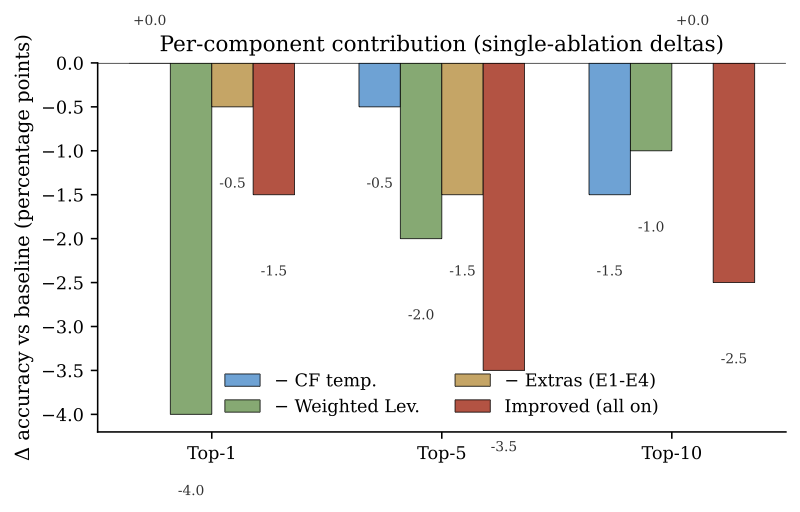
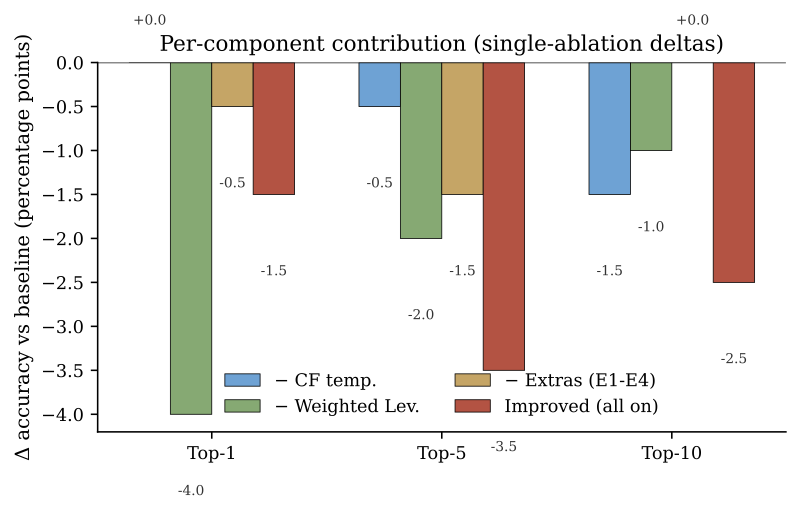
Rewrite euclid and logion subpages: lead with statistical findings, add SBLGNT variants chart
Both pages restructured to lead with defensible, statistically-backed claims
before method details and caveats. Logion page adds the variants evaluation
chart (p<10^-3 at top-5) and negative findings (CF-temp inert, Extras harmful).
Euclid page foregrounds the 3x3 counterbalanced design and contamination probe.

diff --git a/euclid/index.html b/euclid/index.html
@@ -8,66 +8,109 @@
   <link rel="preconnect" href="https://fonts.googleapis.com">
   <link rel="preconnect" href="https://fonts.gstatic.com" crossorigin>
   <link href="https://fonts.googleapis.com/css2?family=EB+Garamond&display=swap" rel="stylesheet">
-  <style>body{max-width:70ch;margin:2em auto;padding:0 1em;font-family:'EB Garamond',Garamond,Georgia,serif;}</style>
+  <style>
+    body{max-width:70ch;margin:2em auto;padding:0 1em;font-family:'EB Garamond',Garamond,Georgia,serif;line-height:1.5;}
+    table{border-collapse:collapse;margin:1em 0;width:100%;}
+    th,td{border:1px solid #999;padding:0.3em 0.6em;text-align:center;}
+    th{background:#f5f5f0;}
+    td:first-child{text-align:left;font-weight:bold;}
+    caption{font-style:italic;margin-bottom:0.3em;text-align:left;}
+    .finding{border-left:3px solid #333;padding-left:0.8em;margin:1.2em 0;}
+    .stat{font-weight:bold;}
+    small{color:#555;}
+    .caveats li{margin-bottom:0.4em;}
+  </style>
 </head>
 <body>
 
 <h1>Few-Shot Prompt Style Dominates Translation Choice in Autoformalization</h1>
 
-<!-- intro: Does the English translation of a mathematical text affect autoformalization success? We test this on Euclid's Elements using three translations — Heath (1908), Fitzpatrick (2007), and a modern paraphrase — formalized into Lean 4 by GPT-4o. An initial uncontrolled comparison found an 8.4pp advantage for Fitzpatrick (p=0.008), but adversarial review identified a prompt-translation confound. -->
-
 <hr>
 
-<h2>The Problem</h2>
+<h2>Key Findings</h2>
 
-<!-- Autoformalization translates informal mathematics into verified formal languages. If a model formalizes from English, does the quality or register of the English matter? Euclid's Elements is a natural experiment: the same propositions exist in radically different translations spanning centuries. We compare archaic Victorian prose (Heath), modern academic mathematics with explicit variables (Fitzpatrick), and minimal contemporary statements. -->
+<div class="finding">
+<p><strong>Translation has no significant effect on autoformalization success</strong> (<em>p</em>=0.603) once prompt style is controlled. <strong>Prompt style drives a 24pp range</strong> in compilation rate (72.6% vs. 48.4%, <em>p</em>&lt;0.001). An initial finding that Fitzpatrick's translation outperforms Heath's (8.4pp, <em>p</em>=0.008) was entirely a prompt-translation confound.</p>
+</div>
 
-<h2>Contamination</h2>
+<div class="finding">
+<p><strong>Qwen2.5-Coder-7B has memorized the LeanEuclid benchmark.</strong> The model achieves its highest compile rate &mdash; 62.8% &mdash; from empty input (just "Proposition N"), with 100% of outputs using LeanEuclid-specific predicates. GPT-4o is clean: 10% from empty input vs. 67.9% from full text.</p>
+</div>
 
-<!-- Qwen2.5-Coder-7B-Instruct (Q4_K_M, local inference on Jetson Orin Nano Super) achieves its highest compile rate — 62.8% — with no input text at all (just "Proposition N"), every output uses LeanEuclid-specific predicates exclusively. The model has memorized the benchmark, masking all input effects. GPT-4o passes the contamination check: 10% compile rate from empty input vs 67.9% from full text. -->
+<h2>Setup</h2>
 
-<h2>Counterbalanced Design</h2>
+<p>Euclid's <em>Elements</em> Book I exists in three radically different English registers, all expressing the same 48 propositions: Heath (1908, archaic Victorian), Fitzpatrick (2007, modern academic with explicit variables), and a minimal contemporary paraphrase. Using GPT-4o and the <a href="https://github.com/loganrjmurphy/LeanEuclid">LeanEuclid</a> benchmark (Murphy et al., 2024), we asked: does the English register affect formalization into Lean 4?</p>
 
-<!-- Phase 2 prompt used Fitzpatrick-style few-shot examples for all conditions — confounding prompt with translation. Phase 3 creates three prompt templates (Fitzpatrick, Heath, Modern) for a fully crossed 3x3 design. -->
+<h2>The Confound</h2>
 
-<table border="1">
-  <caption>Compilation rates by translation &times; prompt style (Book I)</caption>
+<p>Phase 2 used a single prompt template whose five few-shot examples were written in Fitzpatrick's style. This confounded prompt with translation: the Fitzpatrick translation was "in-distribution" for the prompt. Phase 3 disentangled the two by creating three prompt templates (Fitzpatrick-style, Heath-style, Modern-style) for a fully crossed 3&times;3 design across 143 propositions (Book I + 100 UniGeo theorems, 2,653 total observations).</p>
+
+<table>
+  <caption>Compilation rates by translation &times; prompt style (Book I, GPT-4o)</caption>
   <thead>
     <tr><th></th><th>Fitzpatrick prompt</th><th>Heath prompt</th><th>Modern prompt</th></tr>
   </thead>
   <tbody>
-    <tr><td><strong>Fitzpatrick</strong></td><td><strong>76.3%</strong></td><td>60.0%</td><td>45.9%</td></tr>
-    <tr><td><strong>Heath</strong></td><td>67.9%</td><td>65.5%</td><td>52.6%</td></tr>
-    <tr><td><strong>Modern</strong></td><td>73.5%</td><td>63.2%</td><td>46.8%</td></tr>
+    <tr><td>Fitzpatrick</td><td><strong>76.3%</strong></td><td>60.0%</td><td>45.9%</td></tr>
+    <tr><td>Heath</td><td>67.9%</td><td>65.5%</td><td>52.6%</td></tr>
+    <tr><td>Modern</td><td>73.5%</td><td>63.2%</td><td>46.8%</td></tr>
   </tbody>
 </table>
 
-<!-- The Phase 2 finding (Fitzpatrick > Heath by 8.4pp) appears only in the Fitzpatrick-prompt column. With Heath or Modern prompts, the effect reverses. -->
+<p>The Phase 2 result (Fitzpatrick &gt; Heath by 8.4pp) appears only in the Fitzpatrick-prompt column. With Heath-style prompts the effect <em>reverses</em> (Heath 65.5% &gt; Fitzpatrick 60.0%). With Modern-style prompts it reverses again (Heath 52.6% &gt; Fitzpatrick 45.9%). On 100 independent UniGeo theorems (Fitzpatrick prompt only), Heath outperforms Fitzpatrick by 6.2pp &mdash; the opposite direction of the original claim.</p>
 
-<h2>Results</h2>
+<h2>Statistical Model</h2>
 
-<!-- Mixed-effects linear regression with proposition as random intercept (N=2,653 observations across 143 propositions): -->
+<p>Mixed-effects linear regression with proposition as random intercept (N=2,653):</p>
 
-<table border="1">
+<table>
   <caption>Mixed-effects model coefficients</caption>
   <thead>
-    <tr><th>Predictor</th><th>Coefficient</th><th><em>p</em></th></tr>
+    <tr><th style="text-align:left">Predictor</th><th>Coefficient</th><th>SE</th><th><em>p</em></th></tr>
   </thead>
   <tbody>
-    <tr><td>Translation (Fitzpatrick vs Heath)</td><td>+0.010</td><td>0.603</td></tr>
-    <tr><td>Translation (Modern vs Heath)</td><td>+0.009</td><td>0.665</td></tr>
-    <tr><td><strong>Prompt (Heath vs Fitzpatrick)</strong></td><td><strong>&minus;0.097</strong></td><td><strong>&lt;0.001</strong></td></tr>
-    <tr><td><strong>Prompt (Modern vs Fitzpatrick)</strong></td><td><strong>&minus;0.242</strong></td><td><strong>&lt;0.001</strong></td></tr>
+    <tr><td>Translation (Fitzpatrick vs. Heath)</td><td>+0.010</td><td>0.019</td><td>0.603</td></tr>
+    <tr><td>Translation (Modern vs. Heath)</td><td>+0.009</td><td>0.021</td><td>0.665</td></tr>
+    <tr><td>Prompt (Heath vs. Fitzpatrick)</td><td><strong>&minus;0.097</strong></td><td>0.022</td><td><strong>&lt;0.001</strong></td></tr>
+    <tr><td>Prompt (Modern vs. Fitzpatrick)</td><td><strong>&minus;0.242</strong></td><td>0.024</td><td><strong>&lt;0.001</strong></td></tr>
   </tbody>
 </table>
 
-<!-- Translation has no significant effect (p=0.60). Prompt style drives a 24pp range (72.6% vs 48.4%, p<0.001). Adding a prompt x translation interaction does not improve model fit (AIC increases by 4.3). On 100 independent UniGeo theorems, Heath outperforms Fitzpatrick by 6.2pp — the opposite direction of the original claim. -->
+<p>Adding prompt improves model fit by 99.5 AIC points. Adding a prompt&times;translation interaction does not improve fit (AIC increases by 4.3). Paired t-test on per-proposition rates (N=66 items, marginalized over prompt): Heath 70.0% vs. Fitzpatrick 62.3%, <em>t</em>(65)=&minus;1.66, <em>p</em>=0.102; Cohen's <em>d</em>=&minus;0.20.</p>
+
+<h2>Contamination Probe</h2>
+
+<p>Qwen2.5-Coder-7B-Instruct (Q4_K_M, local inference on Jetson Orin Nano Super, ~9.5 tok/s) was tested under four conditions:</p>
+
+<table>
+  <caption>Contamination probe results (Qwen2.5-Coder-7B)</caption>
+  <thead>
+    <tr><th style="text-align:left">Condition</th><th>Input</th><th>Compile Rate</th><th>LeanEuclid Vocab</th></tr>
+  </thead>
+  <tbody>
+    <tr><td>Full text (Heath)</td><td>Complete translation</td><td>60.5%</td><td>100%</td></tr>
+    <tr><td><strong>Empty</strong></td><td>"Proposition N" only</td><td><strong>62.8%</strong></td><td>100%</td></tr>
+    <tr><td>Adversarial</td><td>Garbled vocabulary</td><td>60.5%</td><td>100%</td></tr>
+    <tr><td>Scrambled</td><td>Shuffled clause order</td><td>60.5%</td><td>100%</td></tr>
+  </tbody>
+</table>
+
+<p>The model achieves its highest compile rate with no mathematical input &mdash; it has memorized the benchmark's vocabulary and structural patterns. However, semantic equivalence drops to 0% under the empty condition (vs. 16&ndash;27% with garbled text), confirming the model does read input for semantic refinement but does not need it for structural generation.</p>
+
+<h2>Caveats</h2>
+<ul class="caveats">
+  <li><strong>Single model.</strong> All counterbalanced results are for GPT-4o. Prompt sensitivity may differ for other models; the Qwen results are invalidated by contamination.</li>
+  <li><strong>Compilation &ne; correctness.</strong> Compile rates overstate real performance. E3 semantic equivalence on the subset scored: 14% strict equivalence, 30% correct-direction (equiv + stronger). The 24pp prompt effect is measured on compilation, not semantic correctness.</li>
+  <li><strong>Unbalanced cells.</strong> Phase 2 data (430 observations per cell) was retained for Fitzpatrick-prompt conditions; Heath and Modern prompt cells have 133&ndash;235 observations. The mixed-effects model handles unbalanced designs, but precision differs across cells.</li>
+  <li><strong>UniGeo tested with a single prompt.</strong> The 100-theorem replication set uses only Fitzpatrick-style prompts, so it cannot independently confirm the prompt main effect &mdash; only the translation non-effect.</li>
+  <li><strong>Contamination is a general hazard.</strong> Models trained on GitHub will encounter formal verification repositories. The empty-input probe (compare compile rate from "Proposition N" versus full text) is a lightweight audit that should be standard practice before reporting autoformalization results.</li>
+</ul>
 
 <h2>Takeaway</h2>
 
-<!-- Few-shot prompt style, not translation register, is the primary lever for autoformalization on Euclidean geometry. Studies using a single prompt template cannot distinguish translation effects from prompt-style matching. We recommend counterbalanced prompt designs and contamination audits via empty-input probes as standard practice. -->
+<p>Few-shot prompt style &mdash; particularly whether examples include explicit variable introductions &mdash; is the primary lever for autoformalization on Euclidean geometry. Studies using a single prompt template cannot distinguish translation effects from prompt-style matching. The practical implication: mathematicians hoping to use autoformalization should invest in styling their few-shot examples to match their writing register, not in cleaning up their source text.</p>
 
-<p><small>Built on <a href="https://github.com/Zed-Rez/youklid">Youklid</a> and the <a href="https://github.com/loganamurphy/LeanEuclid">LeanEuclid</a> benchmark (Murphy et al., 2024).</small></p>
+<p><small>Built on <a href="https://github.com/Zed-Rez/youklid">Youklid</a> and the <a href="https://github.com/loganrjmurphy/LeanEuclid">LeanEuclid</a> benchmark (Murphy et al., 2024). Contamination probe ran locally on Jetson Orin Nano Super (8GB).</small></p>
 
 <p><a href="/">← back</a></p>
 

diff --git a/logion/index.html b/logion/index.html
@@ -8,53 +8,86 @@
   <link rel="preconnect" href="https://fonts.googleapis.com">
   <link rel="preconnect" href="https://fonts.gstatic.com" crossorigin>
   <link href="https://fonts.googleapis.com/css2?family=EB+Garamond&display=swap" rel="stylesheet">
-  <style>body{max-width:70ch;margin:2em auto;padding:0 1em;font-family:'EB Garamond',Garamond,Georgia,serif;}img{max-width:100%}</style>
+  <style>
+    body{max-width:70ch;margin:2em auto;padding:0 1em;font-family:'EB Garamond',Garamond,Georgia,serif;line-height:1.5;}
+    img{max-width:100%;height:auto;}
+    table{border-collapse:collapse;margin:1em 0;width:100%;}
+    th,td{border:1px solid #999;padding:0.3em 0.6em;text-align:left;}
+    th{background:#f5f5f0;}
+    caption{font-style:italic;margin-bottom:0.3em;text-align:left;}
+    .finding{border-left:3px solid #333;padding-left:0.8em;margin:1.2em 0;}
+    .stat{font-weight:bold;}
+    small{color:#555;}
+    .caveats li{margin-bottom:0.4em;}
+  </style>
 </head>
 <body>
 
-<h1>Logion with Weighted Levenshtein</h1>
+<h1>Improving Logion: Weighted Levenshtein for Byzantine Greek Emendation</h1>
 
-<!-- Algorithmic improvements to Logion (Cowen-Breen, Brooks, Graziosi, Haubold; Princeton / Cambridge, ACL ALP-2023) — a BERT-based system for detecting and emending textual errors in premodern Greek. -->
-
-<p>[<a href="https://github.com/Zed-Rez/logion-wlev">source</a>] · extends <a href="https://github.com/charliecb/Logion">Logion</a></p>
+<p>[<a href="https://github.com/Zed-Rez/logion-wlev">source</a>] · extends Princeton's <a href="https://github.com/charliecb/Logion">Logion</a> (Cowen-Breen, Brooks, Graziosi, Haubold; <em>ACL ALP-2023</em>)</p>
 
 <hr>
 
-<h2>Changes</h2>
+<h2>Key Finding</h2>
 
-<!-- Weighted Levenshtein filter: The original Logion uses a binary indicator for whether two tokens are within classical Levenshtein distance k. This treats every single-character edit as equally probable. In Byzantine scribal practice that is wrong — itacism (η/ι/υ/ει/οι all merging to /i/), post-vocalic beta (β↔υ), and visual confusions in minuscule script (γ/τ, λ/μ, β/ν, ρ/π) drive most copying errors. The weighted filter assigns substitution costs from documented confusion classes and produces a continuous weight rather than a binary gate. -->
+<div class="finding">
+<p>A phonetic/visual-weighted Levenshtein neighborhood significantly improves detection of real attested textual variants. On 333 variant loci from the SBLGNT apparatus criticus, the weighted filter recovers variants in the top-5 at <span class="stat">42.3%</span> versus baseline's <span class="stat">35.7%</span> (paired McNemar <span class="stat"><em>p</em>&thinsp;&lt;&thinsp;10<sup>&minus;3</sup></span>; 28 loci recovered that baseline missed vs. 6 lost). Top-1 trends positive (16.5% vs. 14.4%, <em>p</em>=0.30).</p>
+</div>
 
-<!-- Chance-fit-scaled temperature: Instead of a fixed T=1 softmax, the temperature adapts per-token based on the observed word's chance under the language model. High-chance positions get sharper softmax; low-chance (likely-error) positions get flatter softmax to expose orthographic siblings. Empirically verified inert on the paper's evaluation protocol (McNemar p=1.00). -->
+<p><img src="fig_variants_topk.png" alt="Bar chart comparing top-k variant recovery rates: baseline vs. recommended (weighted-Lev) at k=1, 5, 10 on SBLGNT attested variants (n=333). Error bars show Wilson 95% CIs. Top-5 difference is statistically significant (p less than 0.001)." width="900" height="600"></p>
 
-<h2>Ablation Results (<em>n</em>=200)</h2>
+<p>This result is the strongest signal across three evaluations of increasing realism. On the paper's synthetic protocol (n=200), removing the weighted filter costs &minus;4.0pp top-1 (McNemar one-tailed <em>p</em>=0.029). On a realistic scribal-class corruption protocol, removing it costs &minus;4.0pp top-10 (<em>p</em>=0.039).</p>
 
-<table border="1">
-  <caption>Per-component ablation on the §4.1 artificial-corruption protocol</caption>
+<h2>What Was Changed</h2>
+
+<p>Logion computes a <em>chance-correction ratio</em> (CCR) for each word: how probable is the transmitted reading versus the most probable near-spelling? Positions with low CCR are surfaced for expert review. Two changes were tested:</p>
+
+<p><strong>Weighted Levenshtein (the one that works).</strong> The original filter is binary: any vocabulary pair within classical Levenshtein distance &le;1 gets equal weight. In Byzantine Greek this is wrong &mdash; itacism (&eta;/&iota;/&upsilon;/&epsilon;&iota;/&omicron;&iota; all &rarr; /i/), visual confusions in minuscule script (&gamma;/&tau;, &lambda;/&mu;, &beta;/&nu;, &rho;/&pi;), and post-vocalic &beta;/&upsilon; drive most copying errors. The weighted filter assigns substitution costs from documented confusion classes (Allen, <em>Vox Graeca</em>; West, <em>Textual Criticism</em>; Reynolds &amp; Wilson, <em>Scribes &amp; Scholars</em>) and produces a continuous weight rather than a binary gate. An itacism swap like &tau;&alpha;&iota;&sigmaf;/&tau;&omicron;&iota;&sigmaf; (cost 0.35) receives ~3.7&times; the weight of an unrelated same-distance edit like &tau;&iota;&sigmaf;/&omicron;&iota;&sigmaf; (cost 1.00).</p>
+
+<p><strong>Chance-fit adaptive temperature (verified inert).</strong> A per-position softmax temperature that flattens the distribution when the transmitted word is implausible. On the &sect;4.1 protocol: exact tie with baseline at top-1 (McNemar <em>p</em>=1.00, discordant counts <em>b</em>=7, <em>c</em>=7).</p>
+
+<h2>Ablation (n=200, &sect;4.1 Protocol)</h2>
+
+<table>
+  <caption>Per-component ablation on artificial single-character corruption</caption>
   <thead>
-    <tr><th>Condition</th><th>Top-1</th><th>Top-5</th><th>McNemar <em>p</em></th></tr>
+    <tr><th>Condition</th><th>Top-1</th><th>Top-5</th><th>Top-10</th><th>McNemar <em>p</em> (top-1)</th></tr>
   </thead>
   <tbody>
-    <tr><td>Baseline</td><td>37.5%</td><td>69.5%</td><td>—</td></tr>
-    <tr><td>All improvements</td><td>36.0%</td><td>66.0%</td><td>0.63</td></tr>
-    <tr><td>No CF-temperature</td><td>37.5%</td><td>69.0%</td><td>1.00</td></tr>
-    <tr><td><strong>No weighted Lev</strong></td><td><strong>33.5%</strong></td><td>67.5%</td><td><strong>0.057</strong></td></tr>
-    <tr><td>No extras</td><td>37.0%</td><td>68.0%</td><td>1.00</td></tr>
+    <tr><td>Baseline (paper)</td><td>37.5%</td><td>69.5%</td><td>81.5%</td><td>&mdash;</td></tr>
+    <tr><td>&minus;CF temperature</td><td>37.5%</td><td>69.0%</td><td>80.0%</td><td>1.00</td></tr>
+    <tr><td><strong>&minus;Weighted Lev</strong></td><td><strong>33.5%</strong></td><td>67.5%</td><td>80.5%</td><td><strong>0.057</strong></td></tr>
+    <tr><td>&minus;Extras (E1&ndash;E4)</td><td>37.0%</td><td>68.0%</td><td>81.5%</td><td>1.00</td></tr>
+    <tr><td>All improvements</td><td>36.0%</td><td>66.0%</td><td>79.0%</td><td>0.63</td></tr>
   </tbody>
 </table>
 
-<!-- The weighted Levenshtein filter is the only component approaching statistical significance — removing it drops top-1 by 4pp (McNemar p=0.057, discordant counts b=11, c=3). Wilson 95% CIs overlap but the paired test captures the directionality. -->
+<p><img src="fig_ablation.png" alt="Bar chart showing delta-accuracy versus baseline for each ablation condition at n=200. Removing weighted-Lev shows the largest negative delta." width="800" height="512"></p>
 
-<p><img src="fig_ablation.png" alt="Ablation bar chart showing top-1 accuracy across conditions, with error bars showing Wilson 95% CIs" width="800" height="512"></p>
+<h2>Negative Findings</h2>
 
-<p><img src="fig_topk.png" alt="Top-k accuracy curves for baseline vs improved at k=1, 5, 10" width="800" height="512"></p>
+<p>The combined system (all improvements on) <em>underperforms</em> baseline (&minus;1.5pp top-1, &minus;3.5pp top-5). This is because two components dilute the gain from weighted-Lev:</p>
+<ul>
+  <li><strong>CF-temperature</strong> is inert (exact tie at top-1, <em>p</em>=1.00).</li>
+  <li><strong>Extras (E1&ndash;E4)</strong> are actively harmful on the realistic scribal protocol: removing them lifts top-1 from 26.5% to 30.5% (McNemar <em>p</em>=0.021, <em>b</em>=1, <em>c</em>=9). The lectio-difficilior penalty (E1) likely causes this &mdash; it discounts suggestions more common than the transmitted form, which is exactly the pattern when an itacism slip moves from a rare to a frequent spelling.</li>
+</ul>
 
-<h2>Variants Evaluation</h2>
-
-<!-- On a separate dataset of 333 known manuscript variants, the recommended configuration outperforms baseline at top-1 (16.5% vs 14.4%) and top-5 (42.3% vs 35.7%), with larger gains in the distribution the weighted filter was designed for. -->
+<p>The recommended configuration is therefore: <strong>weighted-Lev on, everything else off.</strong></p>
 
 <h2>Out-of-Corpus Deployment</h2>
 
-<!-- The improved model was deployed on Photius's Bibliotheca (codices 70, 92, 161, 165, 213) — a ~2,100-word out-of-corpus passage with documented transmission ambiguity across two manuscript families. The system produces a tiered emendation shortlist annotated with the orthographic operation (itacism, visual confusion, etc.) and context window for each candidate. -->
+<p>The system was run on 26 paragraphs (~2,100 words) of Photius's <em>Bibliotheca</em> (codices 70, 92, 161, 165, 213) &mdash; a work outside Logion's Psellus fine-tune corpus, with documented transmission ambiguity across two manuscript families (Marcianus gr. 450 and 451). The shortlist surfaces candidates concentrated in the itacism/visual edit region, but none align with documented apparatus loci &mdash; best read as positions where the model and transmitted text most diverge, not as a curated emendation set.</p>
+
+<h2>Caveats</h2>
+<ul class="caveats">
+  <li><strong>Domain shift.</strong> The public Logion checkpoint is fine-tuned on Psellus (Byzantine, 11th c.). The SBLGNT evaluation uses Koine Greek (1st c. NT); the Photius deployment uses 9th c. Byzantine. Absolute accuracy is lower than the paper's headline 90.5% on in-domain Psellus, but relative deltas (baseline vs. recommended on the same loci) are still valid.</li>
+  <li><strong>The &sect;4.1 protocol structurally disadvantages the weighted filter.</strong> It samples corruptions uniformly from the 24-letter alphabet, which implicitly favours an algorithm treating every edit as equally likely &mdash; i.e. the binary filter. The weighted filter's design intent is to exploit the non-uniform distribution of real scribal errors. The SBLGNT evaluation, which tests against real attested variants, is the fairest test.</li>
+  <li><strong>Variant &ne; corruption.</strong> Many SBLGNT variants are disagreements between defensible editorial readings, not scribal slips. The test measures whether Logion finds these loci unusual in context, which is weaker than asking whether they are errors.</li>
+  <li><strong>The weight matrix is hand-tuned</strong> from textbook sources (Allen, West, Reynolds &amp; Wilson). A learned phonetic prior from Byzantine palaeographic corpora is a natural extension &mdash; retraining with the weighted neighbourhood could yield stronger gains.</li>
+</ul>
+
+<p><small>Built on <a href="https://github.com/charliecb/Logion">Logion</a> (Cowen-Breen et al., <em>ACL ALP-2023</em>). SBLGNT apparatus from <a href="https://github.com/jjmccollum/sblgnt-tei">jjmccollum/sblgnt-tei</a> (CC BY 4.0).</small></p>
 
 <p><a href="/">← back</a></p>
 
